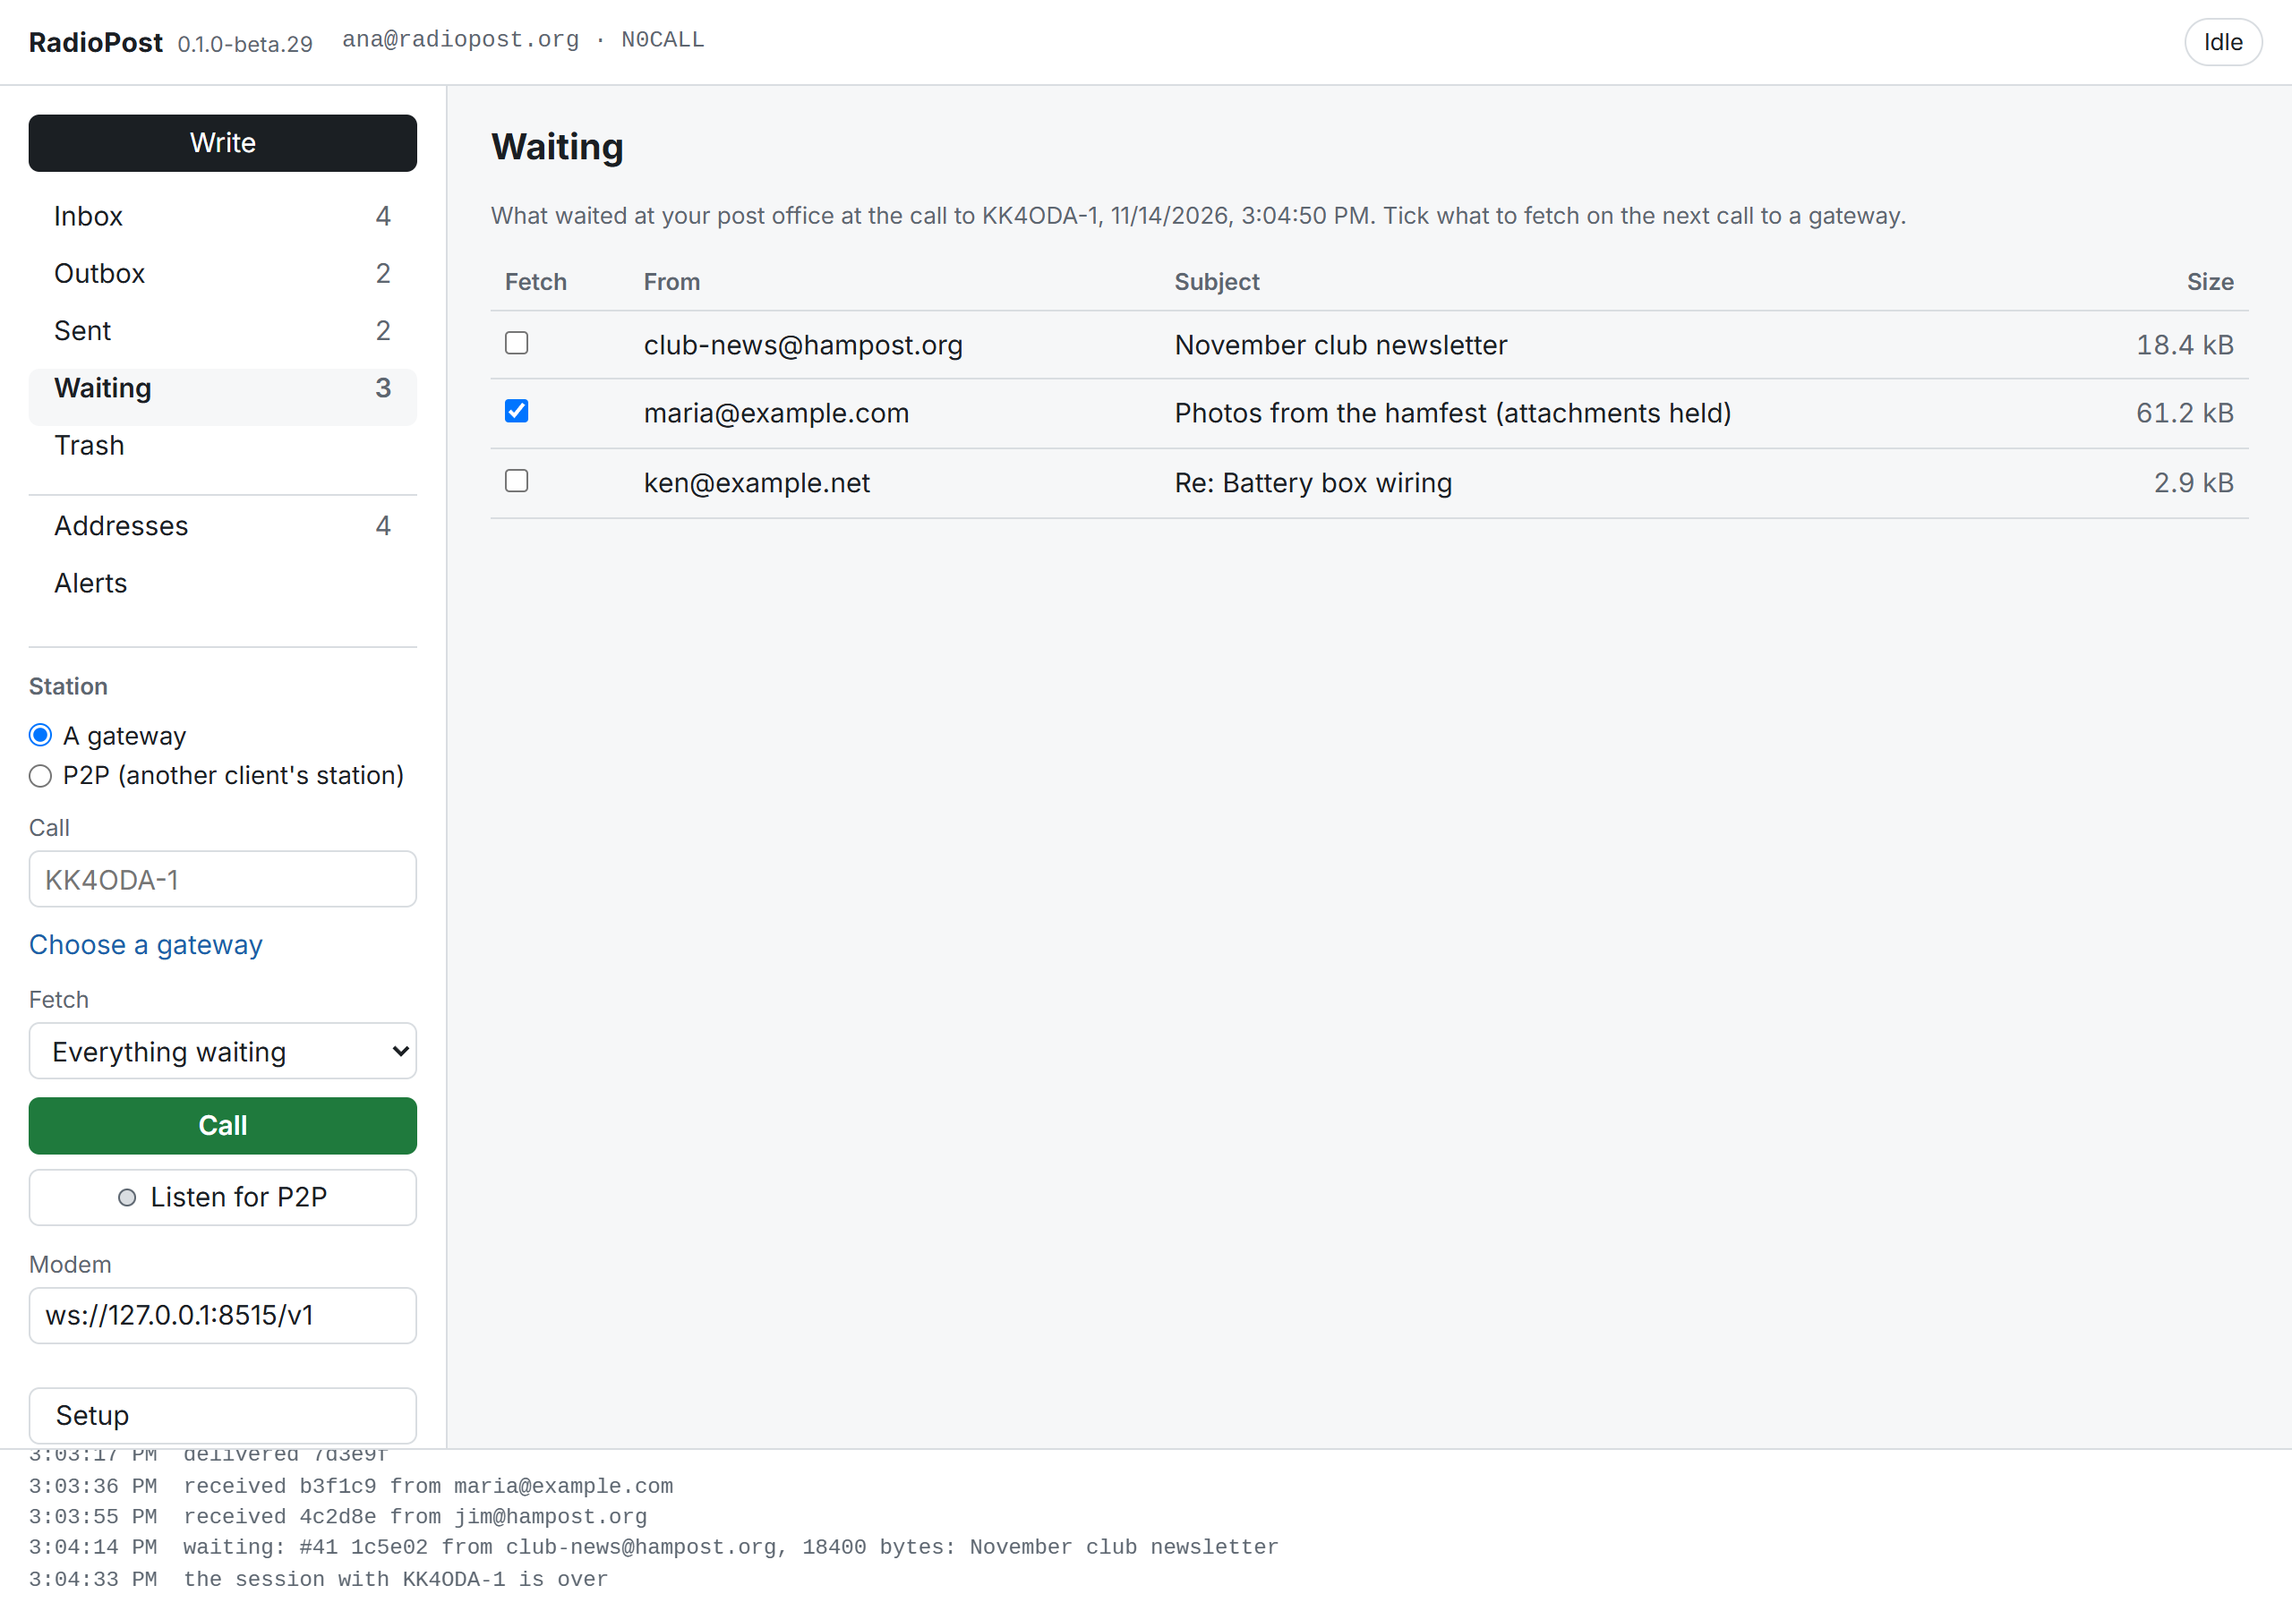
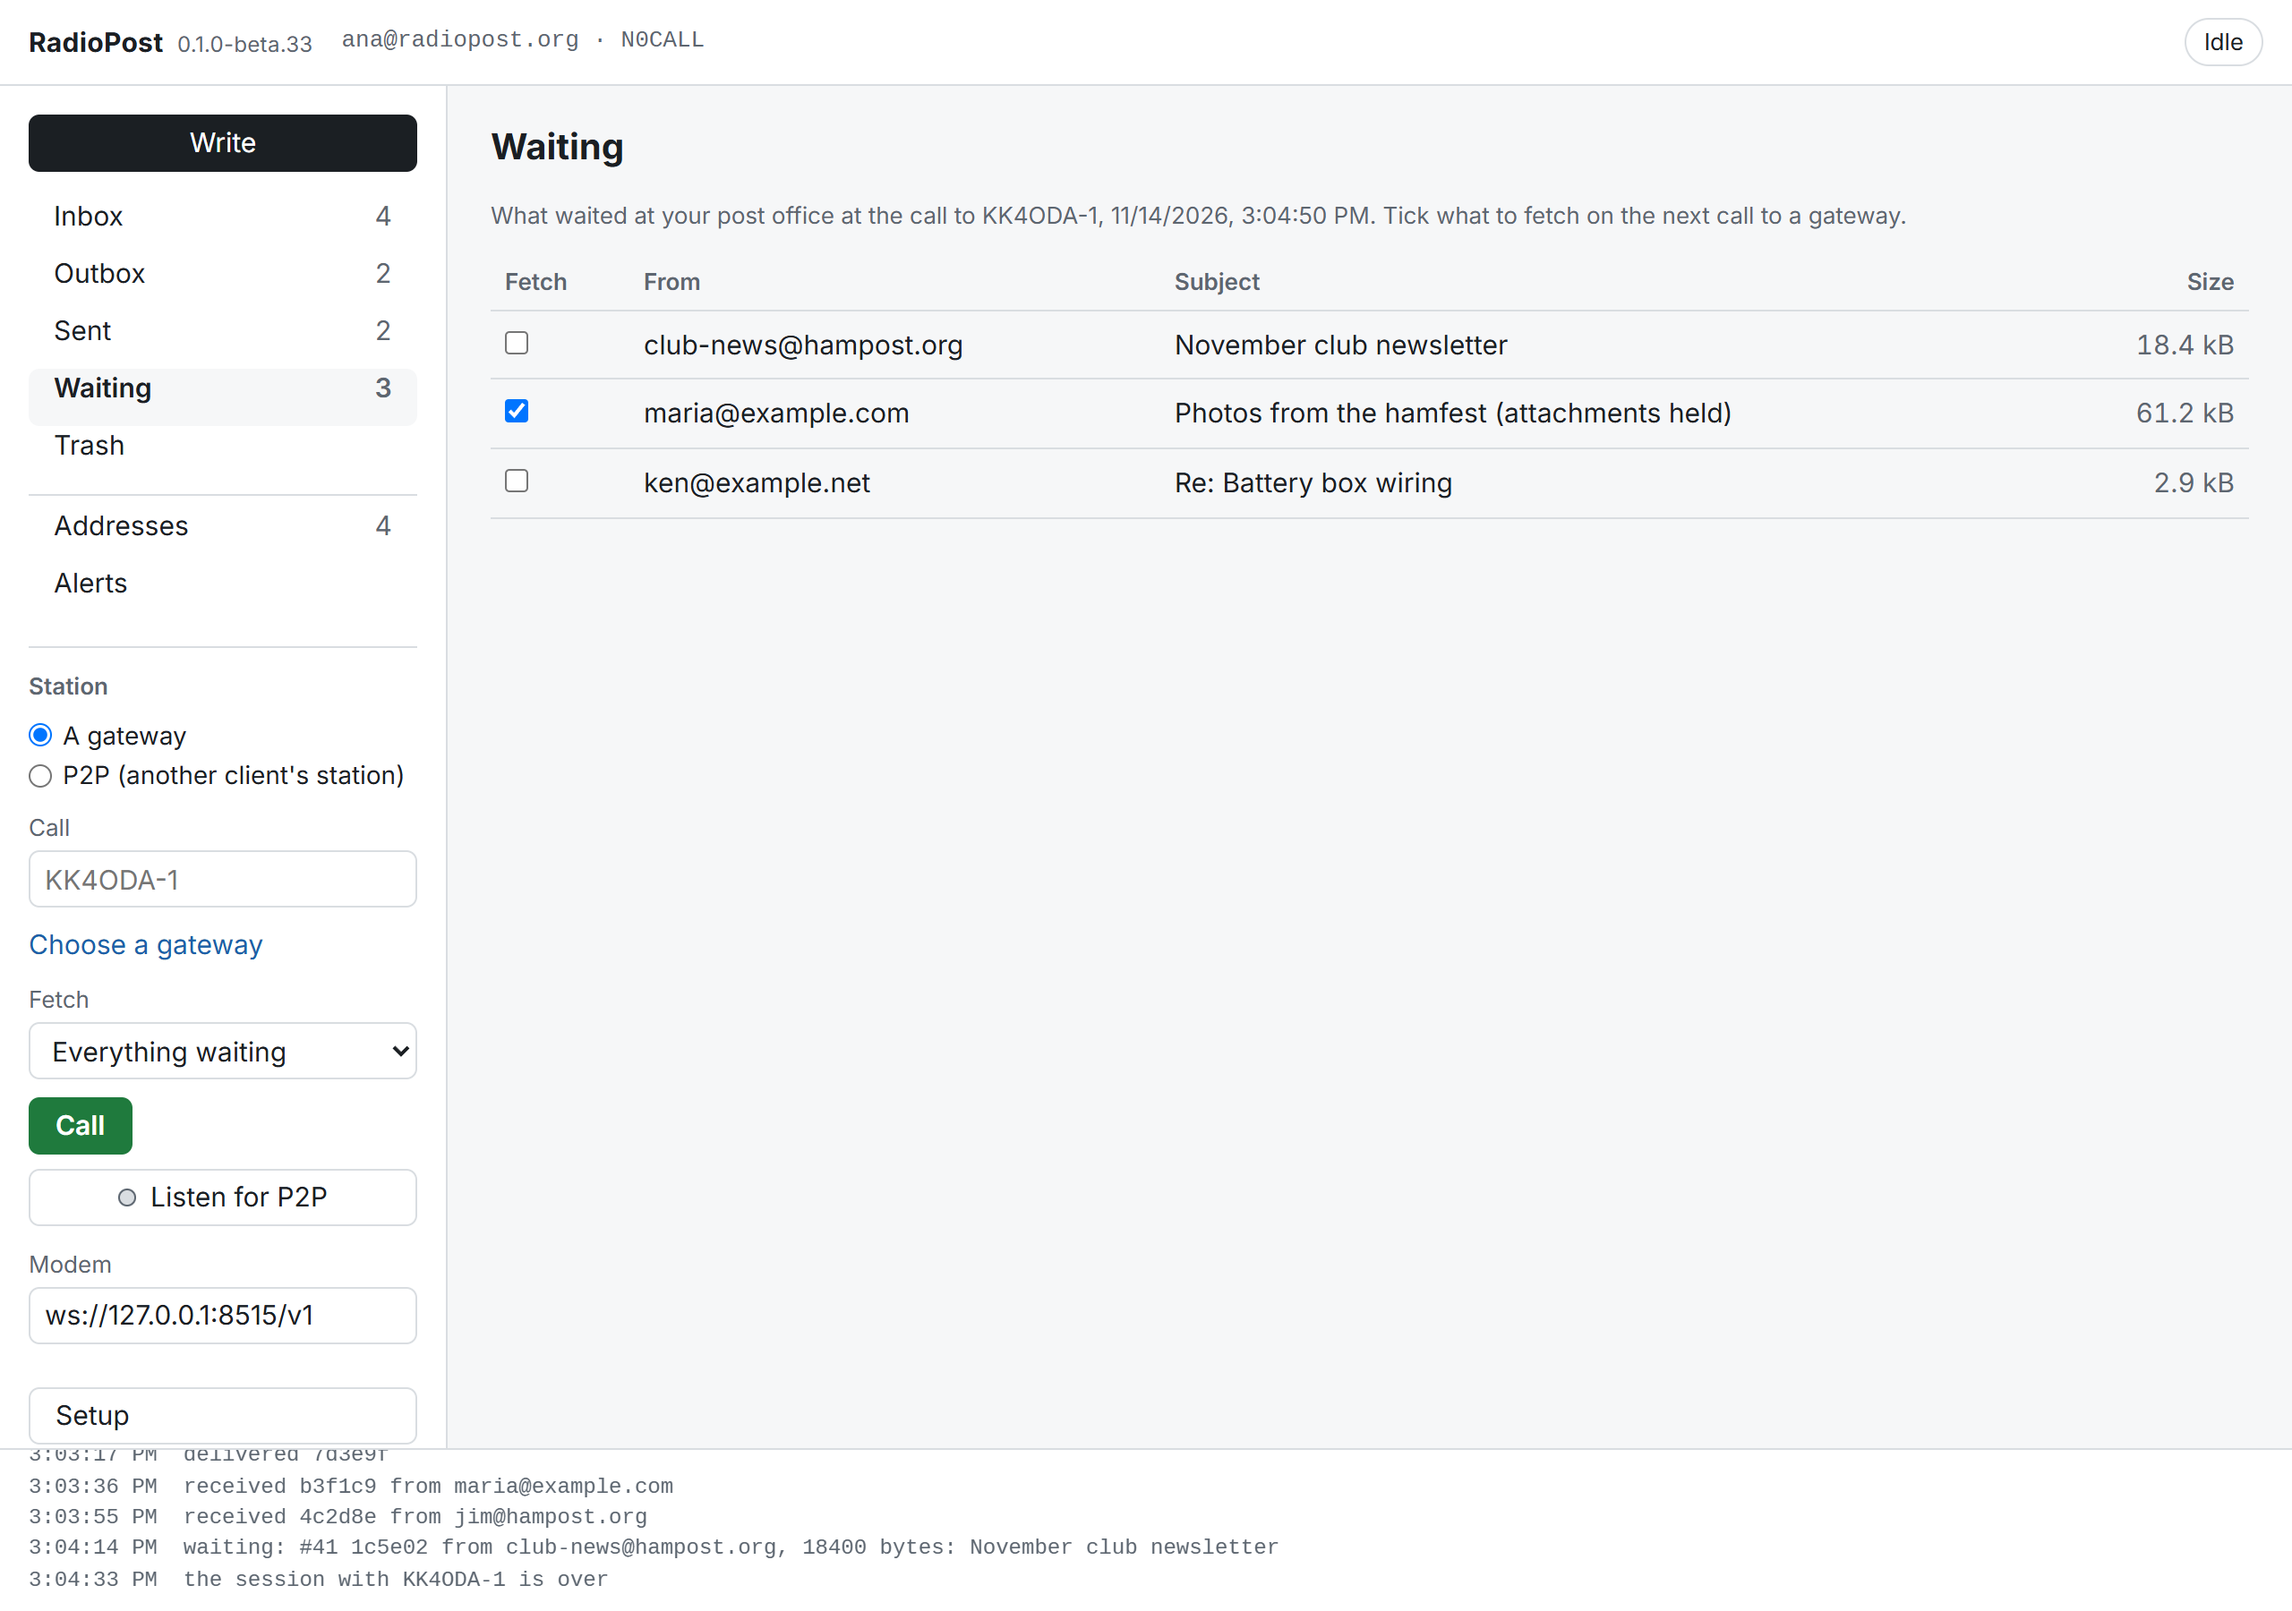
fix(client): Call as wide as its word in the left column too
The author's choice after 9eb2533: Call is short in the wide layout's
left column as well, not only in a narrow window. It keeps its own width
(58 px) under Fetch everywhere; Listen for P2P still spans the column,
as Write and Setup do, and keeps its own row.

Checked in Chrome at 420x900, 500x1000, 600x820, 760x1000, 1000x760 and
1280x800, Listen out and pressed: the narrow windows' pixels are those of
9eb2533, nothing overflows. Manual 1.40.2: §6 reworded; the fourteen
figures that show Call at that width retaken (5, 6, 7, 9, 10, 11, 13,
19, 20, 21, 22, 24, 25, 27), and the README's picture of a call.

Changed region(s): [[0.0312, 0.6533, 0.1875, 0.7156], [0.1562, 0.0, 0.2188, 0.0311]]

diff --git a/app/ui/style.css b/app/ui/style.css
@@ -176,9 +176,10 @@ main { padding: 20px 24px; overflow: auto; min-width: 0; }
 .kinds label.check { margin: 0; color: var(--text); font-size: 14px; }
 #gateways-open { margin: -4px 0 10px; padding: 0; height: auto; border: 0; color: var(--accent); }
 /* the call box: a station call's dial and bandwidth side by side, where the radio is, the tone */
-/* Call, and Listen for P2P on a row of its own under it, so that the box keeps its shape when it
-   reads Listening. Both as wide as the column; stacked, as wide as their words (above) */
+/* Call, as wide as its word, and Listen for P2P on a row of its own under it, so that the box keeps
+   its shape when it reads Listening: as wide as the column, and stacked as wide as its words (above) */
 .station .row { flex-direction: column; }
+.station .row #call { align-self: flex-start; }
 .station .row #listen { justify-content: center; }
 .pair { display: grid; grid-template-columns: 1fr auto; gap: 8px; }
 .pair select { width: auto; }

diff --git a/docs/manual/manual.md b/docs/manual/manual.md
@@ -5,7 +5,7 @@
 | | |
 |---|---|
 | **Status** | Current |
-| **Version** | 1.40.1 |
+| **Version** | 1.40.2 |
 | **Updated** | 2026-11-21 |
 | **Describes** | RadioPost 0.1.0-beta.33 |
 | **Licence** | CC BY 4.0 |
@@ -380,8 +380,8 @@ Every button and box has a tooltip: rest the mouse on it to read what it does.
 
 When the window is narrow (720 pixels wide or less, at 100 % display scale), its parts stack in
 one column: **Write**, the folders side by side, **Station**, then the folder or message you are
-looking at. The buttons keep their own widths there: **Call** and **Listen for P2P** are as wide as
-their words, not the window.
+looking at. The buttons keep their own widths there, **Call** and **Listen for P2P** among them,
+not the window's.
 
 ## 7. Writing a message
 
@@ -2447,3 +2447,4 @@ manual in the same commit. The rule is in `CONTRIBUTING.md`.
 | 1.39.0 | 2026-11-21 | RadioPost Gateway reports its status to its post office (RP-5 1.6.0): Setup's **Report its status to its post office, for anyone to see** (section 18), what it says and when under *Its status, for anyone to see*, the line under **Registration** (section 19), and `status --off` (section 23). Figures 37 and 38 retaken. |
 | 1.40.0 | 2026-11-21 | §10: an alert goes on a **Dial** (the other station's gateway channel predicted best, the circle's watch dial, or where the radio is), the radio tuned there; copies sent while the other station's gateway scans round; a circle's **Watch dial, MHz**, and the red line when the radio or the gateway's scan is not on it; answers go on the dial the alert was heard on, shown in the alarm, and **Call back** fills **Dial, MHz** with it (RP-8 0.2.0). |
 | 1.40.1 | 2026-11-21 | From the session of 2026-11-21. §6: in a narrow window **Call** and **Listen for P2P** are as wide as their words, as **Write** and **Setup** are; they had stretched across the window. Figure 12 retaken. |
+| 1.40.2 | 2026-11-21 | **Call** is as wide as its word in the left column too, under **Fetch**; **Listen for P2P** still spans the column. §6 reworded. Figures 5, 6, 7, 9, 10, 11, 13, 19, 20, 21, 22, 24, 25 and 27 retaken. |
